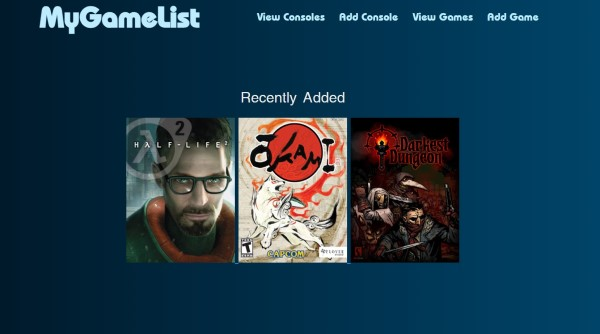
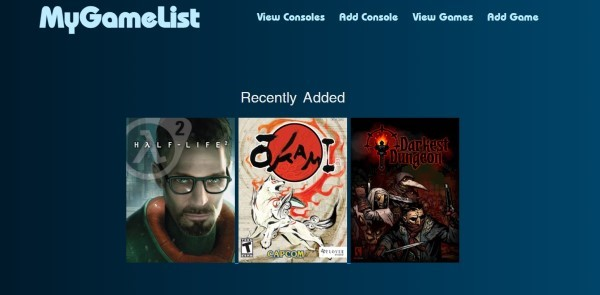
Added loader and fixed navbar link size

diff --git a/src/components/portfolio.js b/src/components/portfolio.js
@@ -1,75 +1,100 @@
-import myGameList from '../assets/images/mygamelist.jpg'
-import rentTech from '../assets/images/renttech.jpg'
-import scandinavianFood from '../assets/images/scandinavianfood.jpg'
-import produceShop from '../assets/images/produceShop.jpg'
-import bloom from '../assets/images/bloom.png'
-import { Link } from 'react-router-dom'
+import myGameList from "../assets/images/mygamelist.jpg";
+import rentTech from "../assets/images/renttech.jpg";
+import scandinavianFood from "../assets/images/scandinavianfood.jpg";
+import produceShop from "../assets/images/produceShop.jpg";
+import bloom from "../assets/images/bloom.png";
+import { Link } from "react-router-dom";
+import { useState, useEffect } from "react";
 
 const Portfolio = () => {
-	return (
-		<div>
-			<div className='portfolio'>
-				<h2>Projects</h2>
-				<div className='link-zone'>
-                    <div className='item'>
-						<a className='links' href='https://bloom-friend-finder.herokuapp.com/' target='_blank' rel="noreferrer">
-							Bloom
-						</a>
-						<a className='links' href='https://bloom-friend-finder.herokuapp.com/' target='_blank' rel="noreferrer">
-                        <img
-								className='image wh-border'
-								src={bloom}
-								alt='Bloom'></img>
-						</a>
-                    </div>
-                    <div className='item'>
-                    <Link className='links' to='/rent-tech'>
-							Rent Tech
-						</Link>
-						<Link className='links' to='/rent-tech'>
-							<img
-								className='image wh-border'
-								src={rentTech}
-								alt='RentTech'></img>
-						</Link>
-					</div>
-                    <div className='item'>
-						<Link className='links' to='/produce-shop'>
-							Produce Shop
-						</Link>
-						<Link className='links' to='/produce-shop'>
-							<img
-								className='image wh-border'
-								src={produceShop}
-								alt='Produce Shop'></img>
-						</Link>
-					</div>
-                    <div className='item'>
-						<Link className='links' to='/my-game-list'>
-							My Game List
-						</Link>
-						<Link className='links' to='/my-game-list'>
-							<img
-								className='image wh-border'
-								src={myGameList}
-								alt='MyGameList'></img>
-						</Link>
-					</div>
-					<div className='item'>
-						<Link className='links' to='/scandinavian-food'>
-							Scandinavian Food
-						</Link>
-						<Link className='links' to='/scandinavian-food'>
-							<img
-								className='image wh-border'
-								src={scandinavianFood}
-								alt='ScandinavianFood'></img>
-						</Link>
+	const [isLoading, setIsLoading] = useState(true);
+
+	useEffect(() => {
+		setTimeout(() => {
+			setIsLoading(false);
+		}, 500);
+	}, []);
+
+	if (isLoading) {
+		return (
+			<div className="circle-loader-container">
+				<div className="circle-loader"></div>
+			</div>
+		);
+	} else {
+		return (
+			<div>
+				<div className="portfolio">
+					<h2>Projects</h2>
+					<div className="link-zone">
+						<div className="item">
+							<a
+								className="links"
+								href="https://bloom-friend-finder.herokuapp.com/"
+								target="_blank"
+								rel="noreferrer">
+								Bloom
+							</a>
+							<a
+								className="links"
+								href="https://bloom-friend-finder.herokuapp.com/"
+								target="_blank"
+								rel="noreferrer">
+								<img
+									className="image wh-border"
+									src={bloom}
+									alt="Bloom"></img>
+							</a>
+						</div>
+						<div className="item">
+							<Link className="links" to="/rent-tech">
+								Rent Tech
+							</Link>
+							<Link className="links" to="/rent-tech">
+								<img
+									className="image wh-border"
+									src={rentTech}
+									alt="RentTech"></img>
+							</Link>
+						</div>
+						<div className="item">
+							<Link className="links" to="/produce-shop">
+								Produce Shop
+							</Link>
+							<Link className="links" to="/produce-shop">
+								<img
+									className="image wh-border"
+									src={produceShop}
+									alt="Produce Shop"></img>
+							</Link>
+						</div>
+						<div className="item">
+							<Link className="links" to="/my-game-list">
+								My Game List
+							</Link>
+							<Link className="links" to="/my-game-list">
+								<img
+									className="image wh-border"
+									src={myGameList}
+									alt="MyGameList"></img>
+							</Link>
+						</div>
+						<div className="item">
+							<Link className="links" to="/scandinavian-food">
+								Scandinavian Food
+							</Link>
+							<Link className="links" to="/scandinavian-food">
+								<img
+									className="image wh-border"
+									src={scandinavianFood}
+									alt="ScandinavianFood"></img>
+							</Link>
+						</div>
 					</div>
 				</div>
 			</div>
-		</div>
-	)
-}
+		);
+	}
+};
 
-export default Portfolio
+export default Portfolio;

diff --git a/src/styles/portfolio.scss b/src/styles/portfolio.scss
@@ -4,86 +4,83 @@
 	max-width: 95%;
 	margin: 0 auto;
 
-    .wh-border {
-        border: 2px solid white;
-    }
+	.wh-border {
+		border: 2px solid white;
+	}
 
 	h2 {
-        font-family: 'Coolvetica';
+		font-family: "Coolvetica";
 		font-size: calc(50px + 3vw) !important;
 		margin: 0 auto;
-        margin-bottom: -30px !important;
+		margin-bottom: -30px !important;
 		font-weight: 400;
 		color: hsl(0, 100%, 70%);
 	}
-    .link-zone {
-        display: flex;
-        flex-direction: row;
-        flex-wrap: wrap;
-        margin: 50px auto;
-        justify-content: center;
-        width: 80%;
-    }
-	.links {     
-        text-align: center;
+	.link-zone {
+		display: flex;
+		flex-direction: row;
+		flex-wrap: wrap;
+		margin: 50px auto;
+		justify-content: center;
+		width: 80%;
+	}
+	.links {
+		text-align: center;
 		color: white;
 		font-size: 3vmax;
-        margin: 40px auto !important;    
-        margin-top: 80px;
-        margin-bottom: 20px !important;
+		margin: 40px auto !important;
+		margin-top: 80px;
+		margin-bottom: 20px !important;
 		font-weight: 500;
-        animation: fadeInUp 2s 0s;
-        animation-fill-mode: forwards;
-        opacity: 0;
-        line-height: 50px !important;
-        display: block;
-    }
+		animation: fadeInUp 2s 0s;
+		animation-fill-mode: forwards;
+		opacity: 0;
+		line-height: 50px !important;
+		display: block;
+	}
 	.links:hover,
 	.links:focus {
 		color: grey;
 		border-color: grey;
 	}
-    .item {
-        width: 620px;
-        min-width: 200px;
-        min-height: 100px;
-        flex-wrap: wrap;
-        justify-content: center;
-        flex-flow: column wrap; 
-        margin-bottom: 20px;
-    }
-    .image {
-        margin: 0 auto;
-        display: block;
-        width: 100%;
-      max-width: 600px;
-      min-width: 200px;
-      height: auto;
-      max-height: 280px;
-      min-height: 100px;
-        border-radius: 20px;
-        margin: 20px auto !important;
-    }
+	.item {
+		width: 620px;
+		min-width: 200px;
+		min-height: 100px;
+		flex-wrap: wrap;
+		justify-content: center;
+		flex-flow: column wrap;
+		margin-bottom: 20px;
+	}
+	.image {
+		margin: 0 auto;
+		display: block;
+		width: 100%;
+		max-width: 600px;
+		min-width: 200px;
+		height: auto;
+		max-height: 280px;
+		min-height: 100px;
+		border-radius: 20px;
+		margin: 20px auto !important;
+	}
 }
 
-@media screen and (max-width: 600px)
-{
-    .portfolio {
-        .item {
-            height: 240px;
-        }
-        .link-zone {
-            margin-top: 0px !important;
-            .links {
-                font-size: 38px;
-            }
-        }
-        h2 {
-            margin-bottom: 0px !important;
-            margin-top: 20px !important;
-            font-size: 70px !important;
-        }
-    }
+@media screen and (max-width: 600px) {
+	.portfolio {
+		.item {
+			height: 240px;
+		}
+		.link-zone {
+			margin-top: 0px !important;
+			.links {
+				font-size: 38px;
+			}
+		}
+		h2 {
+			margin-bottom: 0px !important;
+			margin-top: 20px !important;
+			font-size: 70px !important;
+		}
+	}
 }
-
-

diff --git a/src/index.scss b/src/index.scss
@@ -11,6 +11,7 @@ body {
   -webkit-font-smoothing: antialiased;
   -moz-osx-font-smoothing: grayscale;
   overflow-y: auto;
+  position: relative;
 }
 ::-webkit-scrollbar {
     width: 15px;
@@ -28,4 +29,34 @@ body {
 /* Handle on hover */
 ::-webkit-scrollbar-thumb:hover {
     background: hsl(240, 0%, 25%);
+}
+
+.circle-loader-container {
+	display: flex;
+	justify-content: center;
+	align-items: center;
+	min-height: 90vh;
+    width: 100vw;
+}
+.circle-loader {
+	border: 16px solid white;
+	border-top: 16px solid black;
+	border-radius: 50%;
+	width: 120px;
+	height: 120px;
+	animation: spin 0.5s linear infinite;
+}
+
+@keyframes spin {
+	0% {
+		transform: rotate(0deg);
+	}
+	100% {
+		transform: rotate(360deg);
+	}
+}
+
+.relative {
+    position: relative !important;
+    overflow: hidden !important;
 }

diff --git a/src/styles/navbar.scss b/src/styles/navbar.scss
@@ -3,7 +3,7 @@
   width: 100%;
   justify-content: center;
   z-index: 6;
-  position: sticky;
+  position: relative;
 
   .fixed {
     position: fixed;
@@ -60,7 +60,7 @@
         text-align: center;
         justify-content: center;
         bottom: 20px;
-        height: 100%;
+        height: 10px;
       }
 
       &:first-child {
@@ -113,7 +113,10 @@
     position: fixed;
     width: 100%;
     height: 100%;
+    overflow: hidden !important;
     z-index: 3;
+    margin: 0;
+    top: 0;
 }
 
 @media screen and (max-width: 600px)

diff --git a/src/components/menu.js b/src/components/menu.js
@@ -13,7 +13,7 @@ const Menu = (props) => {
     // }) 
     //return animated.nav to animate
 	return (
-		<nav className="fixed">
+		<nav className="relative">
 			<NavLink exact="true"
 				style={({ isActive }) => ({
 					color: isActive ? 'grey' : 'white'
